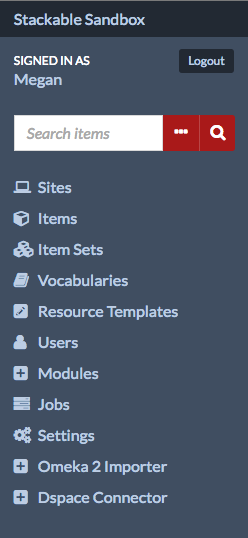
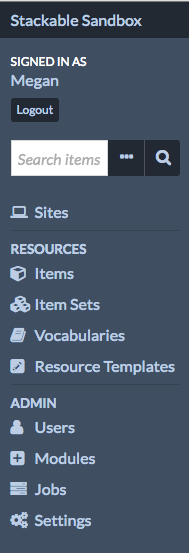
Updated admin for new sidebar

diff --git a/admin-dashboard.md b/admin-dashboard.md
@@ -10,27 +10,29 @@ The following content appears on the left side of the admin dashboard and on all
 
 In the upper left corner of the screen is a link displaying the title of the installation which will always take you back to the admin dashboard. 
 
-Directly below the installation title is the message “Signed in as *User*” where *User* is the display name of the person logged in. Next to this is the button to *Logout*. 
+Directly below the installation title is the message “Signed in as *User*” where *User* is the display name of the person logged in. Near the username (below or to the right, depending on window width) is the button to *Logout*. 
 
-Underneath the user information is a search field which has an option for advanced search (ellipses) in addition to the button to search (magnifying glass). The search function will survey content on the administrative install, including items, vocabularies, resource templates, and media.  
+Underneath the user information is a search field which has an option for advanced search (ellipses) in addition to the button to search (magnifying glass). Use this to search all items in the installation. 
 
 Advanced search options (the ellipses) allow you to refine the search by Resource Type, limiting it to *Items*, *Item Sets*, or *Media* by clicking the radio button next to the Resource Type you want to search. 
 
 ![Advanced search options](/files/search.png)
 
-From the left hand navigation of the admin dashboard, Global Administrators can access the following functions:
+The left hand navigation of the dashboard is divided into sections related to function and user access:
 
 - [Sites](https://github.com/omeka/omeka-s-enduser/blob/master/sites/sites.md): lists and provides access to all of the sites on the OmekaS install. (Computer icon)
-- [Items](https://github.com/omeka/omeka-s-enduser/blob/master/content/items.md): manage the individual resources of your install. (Box icon)
-- [Item Sets](https://github.com/omeka/omeka-s-enduser/blob/master/content/item-sets.md): manage aggregated groups of items. (Multiple boxes icon)
-- [Vocabularies](https://github.com/omeka/omeka-s-enduser/blob/master/content/vocabularies.md): manage the metadata standards for your install. (Closed book icon)
-- [Resource Templates](https://github.com/omeka/omeka-s-enduser/blob/master/content/resource-template.md): manage predefined sets of properties (fields) to use when creating items. (Pencil in a square icon)
-- [Users](https://github.com/omeka/omeka-s-enduser/blob/master/users.md): manage users for the whole install and individual sites. (head and shoulders person icon)
-- [Modules](https://github.com/omeka/omeka-s-enduser/blob/master/modules/modules.md): add functionality to your sites. (Plus sign in square icon)
-- [Jobs](https://github.com/omeka/omeka-s-enduser/blob/master/jobs.md): displays the user-activated tasks which are currently running. NB: jobs only display when they are running. (Three bars icon)
-- [Settings](https://github.com/omeka/omeka-s-enduser/blob/master/settings.md): manage the global settings for all sites, the admin dashboard and the site dashboards. (Gears icon)
+- Resources: content creation and metadata management
+    - [Items](https://github.com/omeka/omeka-s-enduser/blob/master/content/items.md): manage the individual resources of your install. (Box icon)
+    - [Item Sets](https://github.com/omeka/omeka-s-enduser/blob/master/content/item-sets.md): manage aggregated groups of items. (Multiple boxes icon)
+    - [Vocabularies](https://github.com/omeka/omeka-s-enduser/blob/master/content/vocabularies.md): manage the metadata standards for your install. (Closed book icon)
+    - [Resource Templates](https://github.com/omeka/omeka-s-enduser/blob/master/content/resource-template.md): manage predefined sets of properties (fields) to use when creating items. (Pencil in a square icon)
+- Admin: installation-level administration (note that some of these tabs may not be visible to all user levels)
+    - [Users](https://github.com/omeka/omeka-s-enduser/blob/master/users.md): manage users for the whole install and individual sites. (head and shoulders person icon)
+    - [Modules](https://github.com/omeka/omeka-s-enduser/blob/master/modules/modules.md): add functionality to your sites. (Plus sign in square icon)
+    - [Jobs](https://github.com/omeka/omeka-s-enduser/blob/master/jobs.md): displays the user-activated tasks which are currently running. NB: jobs only display when they are running. (Three bars icon)
+    - [Settings](https://github.com/omeka/omeka-s-enduser/blob/master/settings.md): manage the global settings for all sites, the admin dashboard and the site dashboards. (Gears icon)
 
-If you have installed modules, they may appear in the navigation below settings.
+If you have installed modules, they may appear in the admin section of the left navigation below settings.
 
 Note that users with more limited permissions will see only some of these navigation options.
 

diff --git a/sites/site_pages.md b/sites/site_pages.md
@@ -8,7 +8,7 @@ Manage the pages for a site by navigating to the Sites tab on the left-hand navi
 
 Once you are editing the site, click the Pages tab in the left hand navigation.
 
-![Left hand menu options for editing sites, with General, Settings, and Pages links](../sites/sitesfiles/sitepage_nav.png)
+![Left hand menu options for editing sites, with General, Settings, and Pages links](../sites/sitesfiles/sitepg_nav.png)
 
 When you create a new site, Omeka S automatically adds a page titled *Welcome* with a single HTML block (see below). You can edit this page or delete it.
 
@@ -22,7 +22,7 @@ To add a page you must enter a *Title*. You can also enter a *URL Slug*. Both of
 Once you have entered this information, click the Add button in the upper right hand corner of the browser window.
 
 ## Editing Pages  
-After clicking the Pages tab, select the page you wish to edit by clicking the name of the page or the edit button (pencil). Note: clicking on the Page *title* will take you to the public view of that page. On the right hand side you can choose to add a new block by selecting one of the following layouts: *HTML; Browse Preview; Item List; Navigation; File with Text*.
+After clicking the Pages tab, select the page you wish to edit by clicking the name of the page or the edit button (pencil). Note: clicking on the Page *title* will take you to the public view of that page. On the right hand side you can choose to add a new block by selecting one of the following layouts: *Media, HTML, Browse Preview, Item Showcase, Table of Contents, Line Break, Item with Metadata*
 
 ![Add block dropdown menu with the above mentioned options](../sites/sitesfiles/sitepg_addblock.png)
 
@@ -31,6 +31,21 @@ Once you have added blocks to your page, click the Save button in the right hand
 You can delete any of the blocks by clicking on the trash can icon located in the upper right corner of the block. 
 
 Change the order of blocks by clicking on the three horizontal lines on the upper left corner of the block and then dragging and dropping it to the desired location.
+
+### Media
+Creates a block with one or more pieces of media associated with items in the item pool. 
+
+![media block with no media attached](../sites/sitesfiles/sitepg_media.png)
+
+To add media, click the *add attachment* 
+On loading, the drawer will show a list of your items, most recent first. You can select form the first page, page through using the forward and back arrows, or search using the search bar.
+
+![Select item drawer](../sites/sitesfiles/sitepg_selectitem.png)
+
+Once you’ve selected an item, the drawer will shift to that item’s information. You can add a caption and select which media (if more than one) you want to use. To return to the list of items, click the *Select item* button at the top of the drawer. To use the item displayed and apply the caption, etc, click the *Apply changes* button at the bottom of the drawer.
+
+
+Dropdown options allow you 
 
 ### HTML: 
 Creates an HTML box in which you can add formatted text and links.
